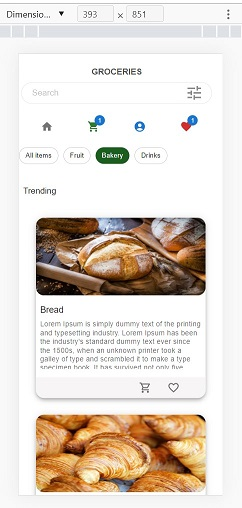
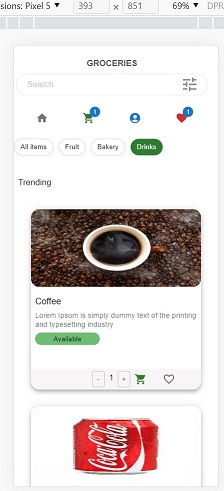
updated readme

diff --git a/README.md b/README.md
@@ -18,6 +18,7 @@
 3. cart page
 4. Favorite page
 5. Catalog Search
+6. Catalog filter
 
 ### Technical Features
 
@@ -31,3 +32,7 @@
 ### Mobile view
 
 ![](mobile.jpg)
+
+### Desktop view
+
+![](desktop.jpg)
